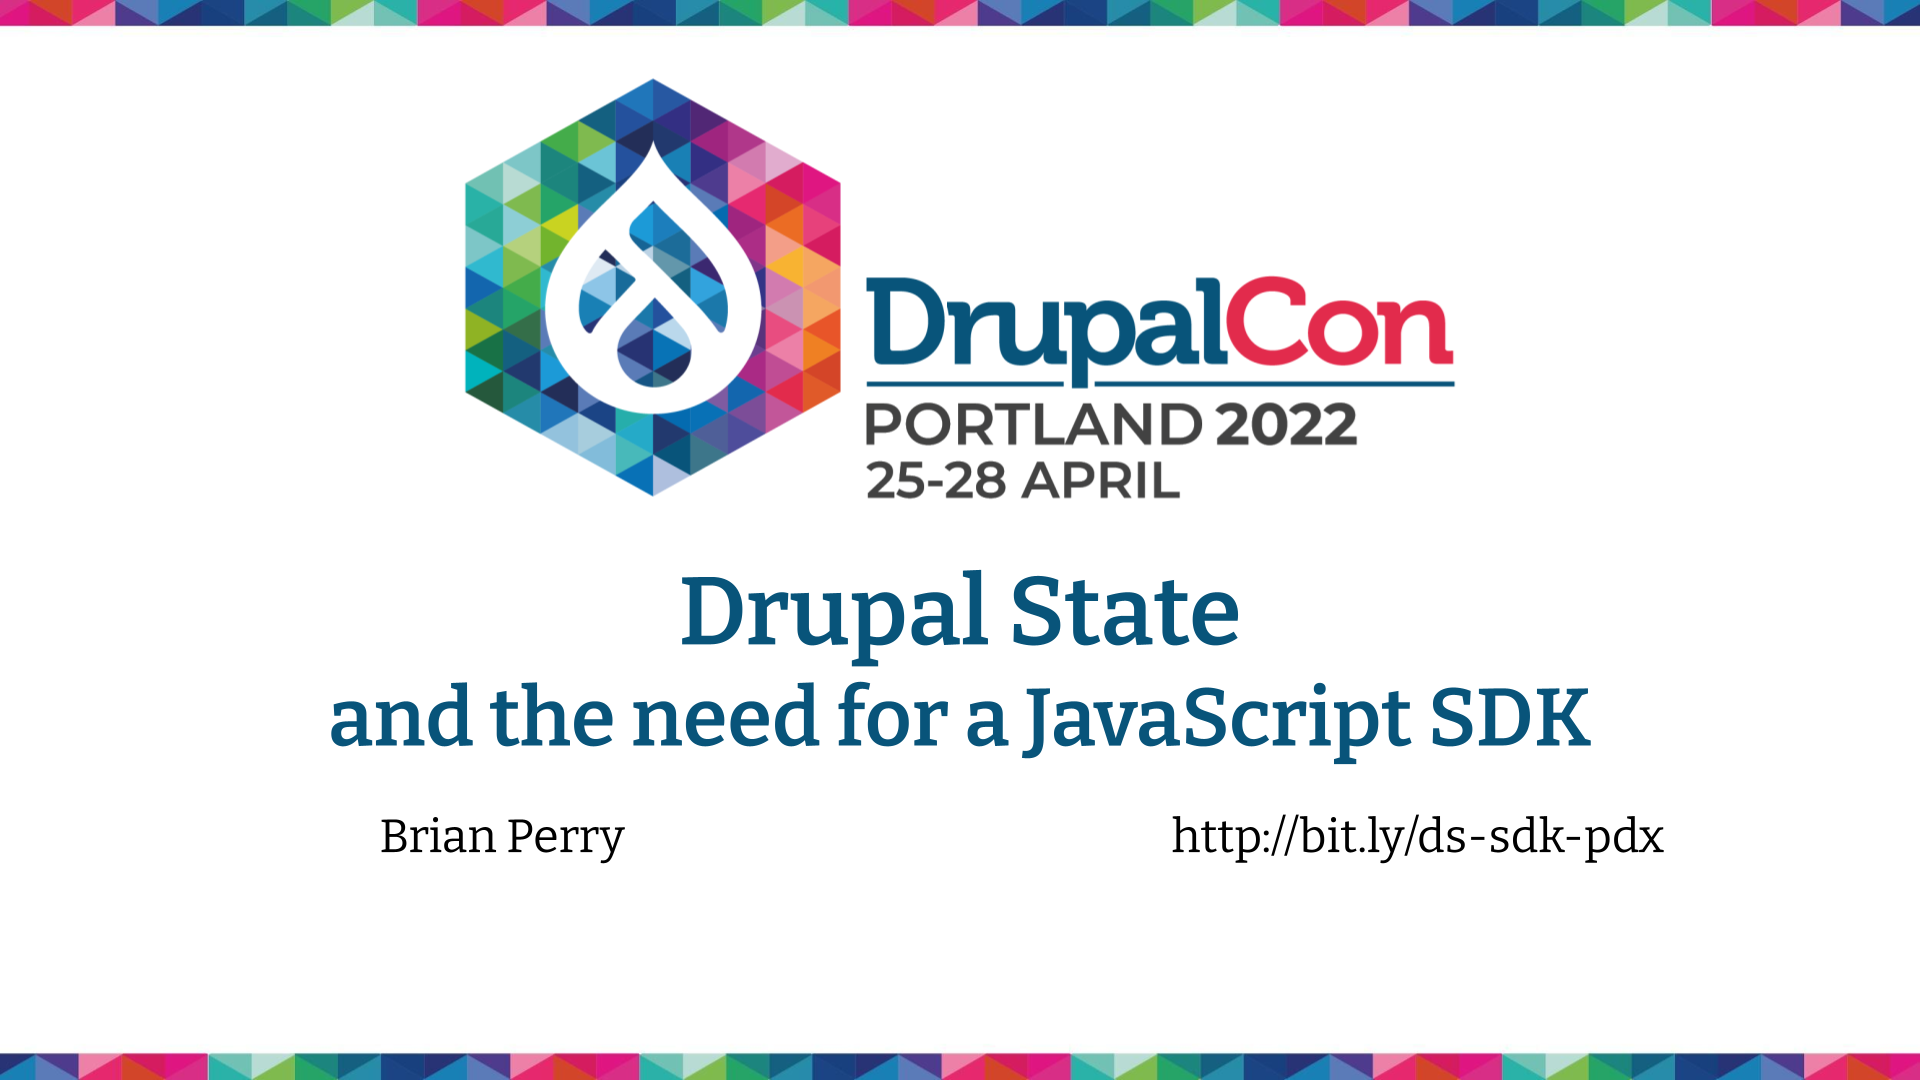
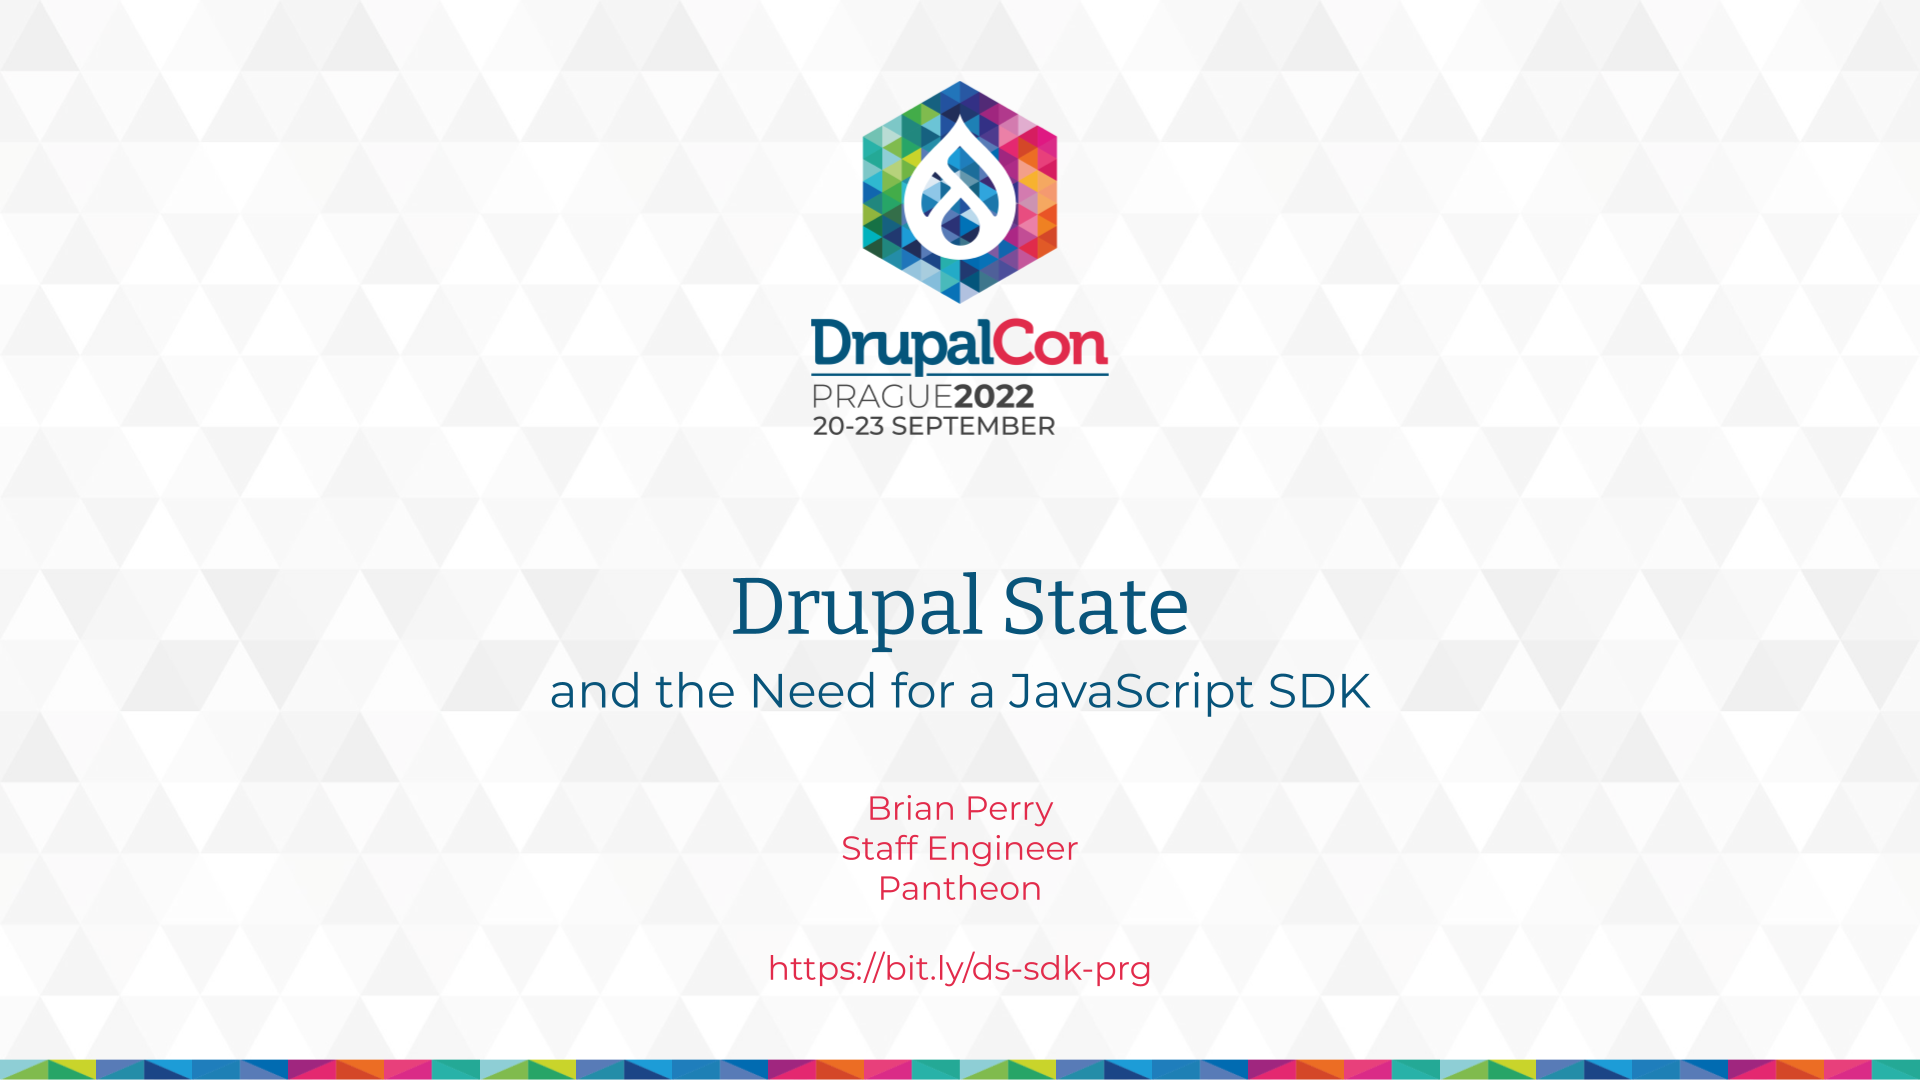
Updated direct fetch examples

diff --git a/src/index.js b/src/index.js
@@ -99,14 +99,13 @@ const SlideFragments = () => (
 
 const Presentation = () => (
   <Deck theme={theme} template={template}>
-    <Slide
-      backgroundColor="tertiary"
-      backgroundImage={`url(${title.default})`}
-    ></Slide>
+    <Slide backgroundColor="tertiary" backgroundImage={`url(${title.default})`}>
+      Hey
+    </Slide>
     <MarkdownSlide>
       {`
         # Brian!
-        * I'm a Sr. Software Engineer at Pantheon
+        * I'm a Staff Engineer at Pantheon
         * I'm an Initiative coordinator for Drupal's Decoupled Menus Initiative
         * I live in the Chicago suburbs
         * I enjoy Drupal, JavaScript, and Nintendo
@@ -129,6 +128,7 @@ const Presentation = () => (
             results, reaching billions globally with Dynamic WordPress and
             Drupal sites. Learn more at Pantheon.io.
           </Text>
+          <Text>Front-end sites in early access!</Text>
         </Box>
       </Grid>
     </Slide>
@@ -138,7 +138,7 @@ const Presentation = () => (
         A simple data store for managing application state sourced from Drupal
         - Why it was created
         - Why you might use it
-        - Why it is important for the future of Drupal
+        - Why it (or something like it) is important for the future of Drupal
       `}
     </MarkdownSlide>
     <Slide
@@ -324,9 +324,9 @@ const translatePath = async (
 export default translatePath;
       `}</CodePane>
     </Slide>
-    <Slide>
+    {/* <Slide>
       <Sandbox config={sb8} openPaths={["/index.js"]}></Sandbox>
-    </Slide>
+    </Slide> */}
     <Slide>
       <Heading>Remember Generic Drupal Web Components?</Heading>
       <CodePane language="javascript">{`
@@ -385,7 +385,8 @@ export default translatePath;
 
         ## Possible Next Steps
         - Promote existing projects to the @drupal namespace
-          - Start with https://www.npmjs.com/package/drupal-jsonapi-params?
+          - Start with decoupled-menus-parser
+          - https://www.npmjs.com/package/drupal-jsonapi-params next?
         - Develop plan to build new SDK like utilities
           - https://www.drupal.org/project/ideas/issues/3277222
         - Documentation efforts within Decoupled Menus Initiative
